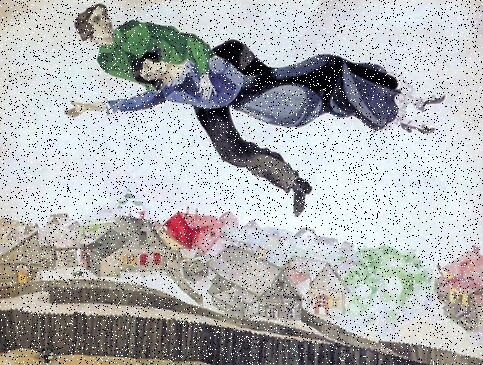
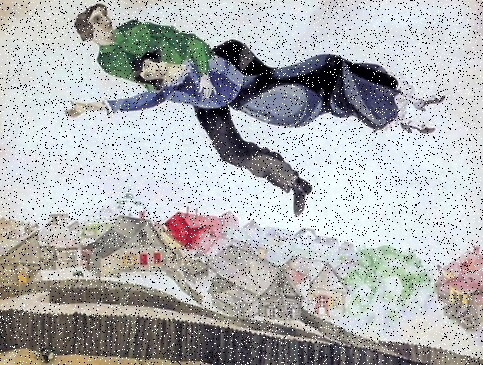
added filter

diff --git a/server.py b/server.py
@@ -23,13 +23,15 @@ while True:
 
     file.close()
 
+    image = cv2.imread('image/server_image.jpg')
+
+    logging.info("Идет восстановление изображения")
+    image = cv2.medianBlur(image, 3)
+
+    cv2.imwrite('image/sp_without_noise.jpg', image)
+    logging.info("Изображение восстановлено")
+
 
 client_socket.close()
 
-image = cv2.imread('image/server_image.jpg')
 
-logging.info("Идет восстановление изображения")
-image = cv2.bilateralFilter(image, 5, 20, 20)
-
-cv2.imwrite('image/sp_without_noise.jpg', image)
-logging.info("Изображение восстановлено")

diff --git a/client.py b/client.py
@@ -1,11 +1,13 @@
 import socket
+import ssl
 
+HOST, PORT = 'localhost', 10002
 client = socket.socket(socket.AF_INET, socket.SOCK_STREAM)  # AF_INET = IP, SOCK_STREAM = TCP
 client.connect(('localhost', 10002))  # 127.0.0.1
 
 file = open('image/foto.jpg', 'rb')
 image_data = file.read(2048)
-
+print(123)
 while image_data:
     client.send(image_data)
     image_data = file.read(2048)
